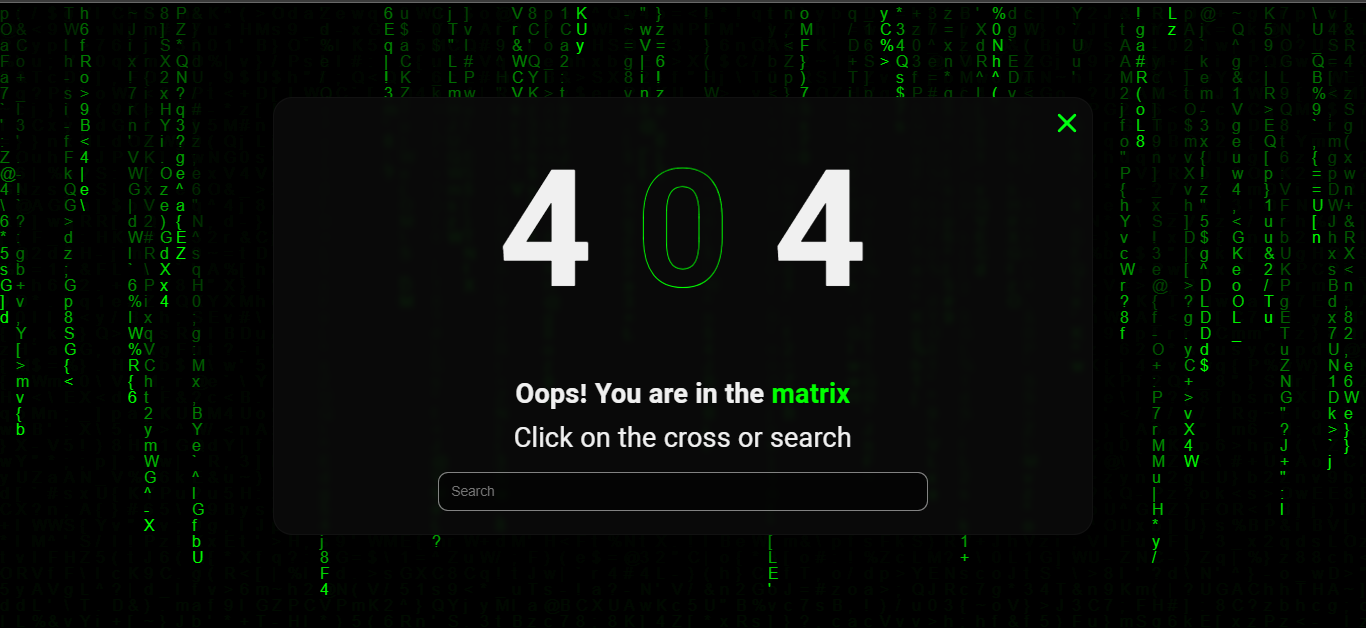
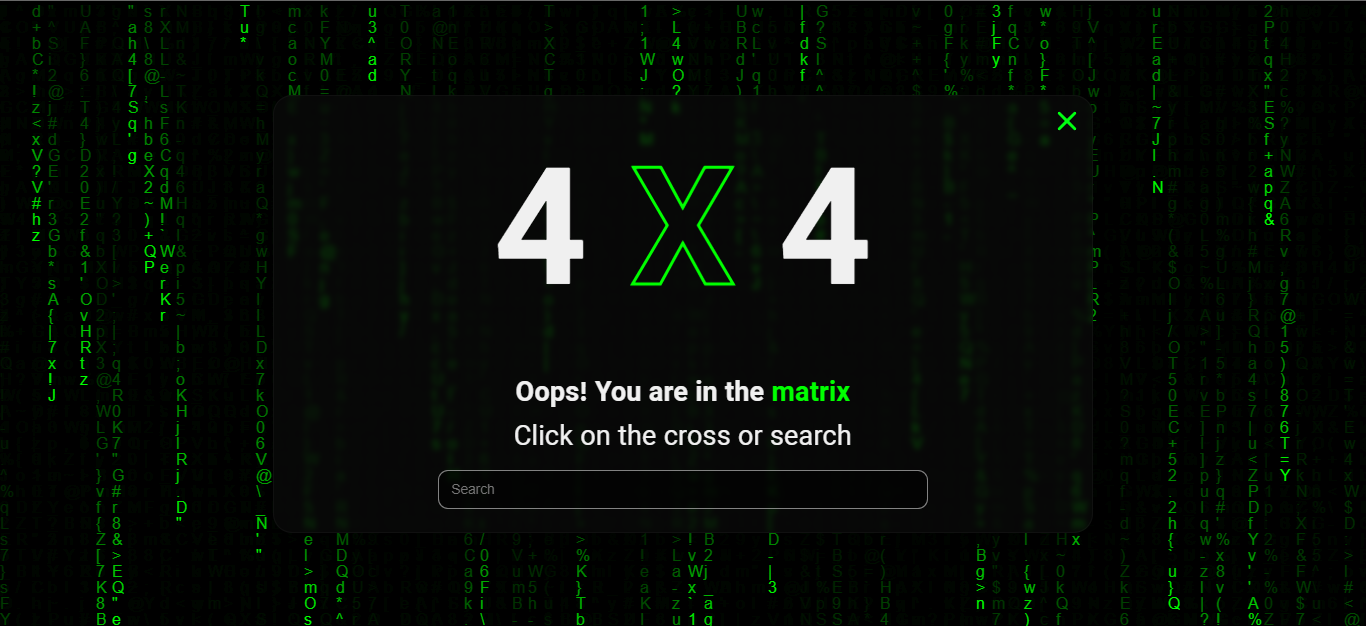
Update page 404 `Matrix`

diff --git a/Technology/Matrix/index.html b/Technology/Matrix/index.html
@@ -4,7 +4,7 @@
     <meta charset="UTF-8">
     <meta name="viewport" content="width=device-width, initial-scale=1.0, maximum-scale=1.0, minimum-scale=1.0">
     <meta http-equiv="X-UA-Compatible" content="ie=edge">
-    <title>Page 404 matrix</title>
+    <title>Page 404 Matrix</title>
     <!--Style-->
     <link rel="stylesheet" href="assets/style.css">
 </head>
@@ -19,7 +19,7 @@
     <div class="texts">
         <h1 class="title_404">
             <span>4</span>
-            <span>0</span>
+            <span class="text_stroke">X</span>
             <span>4</span>
         </h1>
         <p class="text_404" style="font-weight: 600">Oops! You are in the

diff --git a/Technology/Matrix/assets/style.css b/Technology/Matrix/assets/style.css
@@ -61,9 +61,9 @@ canvas {
     color: #0f0;
 }
 
-.title_404 span:nth-child(2) {
-    color: rgba(255, 2555, 255, 0);
-    -webkit-text-stroke: 1px #0f0;
+.text_stroke {
+    color: transparent;
+    -webkit-text-stroke: 3px #0f0;
 }
 
 .close_btn {
@@ -87,12 +87,15 @@ canvas {
     .card {
         width: 85%;
     }
-    .title_404{
+
+    .title_404 {
         font-size: 100px;
     }
-    .text_404{
+
+    .text_404 {
         font-size: 16px;
     }
+
     #search_box {
         font-size: 12px;
     }
